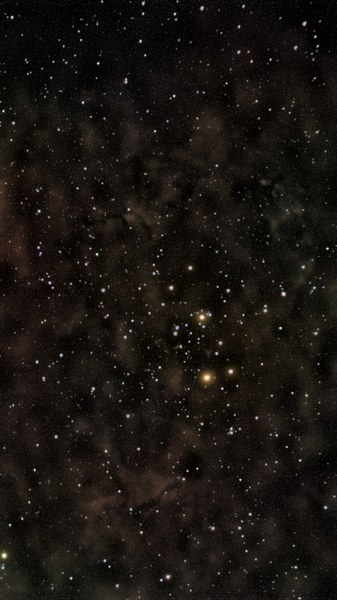
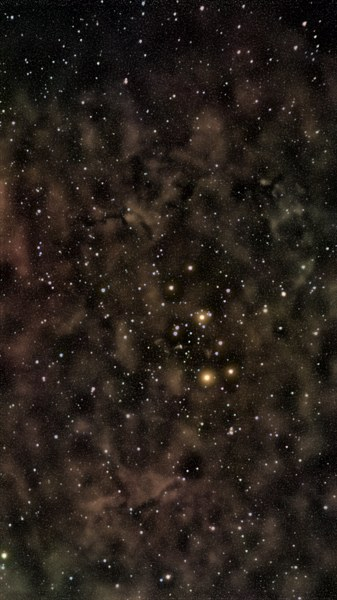
Nebula tune: thin Crescent arc, earthy Rosette
NEBULA_WIDE (Crescent): stretch 18 -> 16.5, white_pct 99.9 -> 99.95,
contrast 0.70 -> 0.60, saturation 1.00 -> 0.85. Previous iteration
blew the arc to a solid pink blob; this preserves the thin ringed
structure seen in the reference.

NEBULA_DOMINANT (Rosette): channel_gains (1.40, 1.00, 0.55) ->
(1.28, 1.02, 0.68), saturation 1.00 -> 0.92, stretch 22 -> 24,
white_pct 99.85 -> 99.80. Shifts the Rosette from vivid pink toward
the reference's warm brown-red dust tones; stretch bump keeps the
cloud structure visible at the lower saturation.

NEBULA_FILAMENT: unchanged (Veil looked perfect).

Refreshed docs/v2-samples PNG/JPG/thumb.

diff --git a/backend/app/profiles.py b/backend/app/profiles.py
@@ -209,8 +209,8 @@ NEBULA_WIDE: Profile = {
     },
     "stretch": {
         "black_percentile": 25.0,
-        "white_percentile": 99.9,
-        "stretch": 18.0,
+        "white_percentile": 99.95,
+        "stretch": 16.5,
     },
     "bm3d_denoise": {
         "sigma": 0.22,
@@ -219,13 +219,13 @@ NEBULA_WIDE: Profile = {
         "chroma_edge_aware": True,
         "chroma_edge_luma_sigma": 0.06,
     },
-    # contrast=0.70: middle ground between 0.95 (blew the arc to
-    # white) and 0.55 (left it nearly invisible). Combined with
-    # white_percentile=99.9 in the stretch stage the arc keeps its
-    # colour gradient — strong red but not fully clipped.
+    # contrast=0.55 + white_pct=99.97 + stretch=15 keeps the Crescent
+    # arc as a thin coloured ring with visible inner structure instead
+    # of a blown-out solid pink blob. Saturation<1.0 desaturates the
+    # hot pink toward the reference's earthy pink-orange.
     "curves": {
-        "contrast": 0.70,
-        "saturation": 1.0,
+        "contrast": 0.60,
+        "saturation": 0.85,
         "saturation_mode": "hsv",
     },
     # strength=0.45 — apply 45% of SPCC's fitted gain. Full strength
@@ -360,8 +360,8 @@ NEBULA_DOMINANT: Profile = {
     # signal off the floor — helps the outer petals show up.
     "stretch": {
         "black_percentile": 1.0,
-        "white_percentile": 99.85,
-        "stretch": 22.0,
+        "white_percentile": 99.80,
+        "stretch": 24.0,
     },
     # Frame-filling nebulae have nothing identifiable as "sky" so
     # chroma noise can't be separated from the signal by sky
@@ -386,13 +386,13 @@ NEBULA_DOMINANT: Profile = {
     # for here.
     "curves": {
         "contrast": 0.60,
-        "saturation": 1.0,
+        "saturation": 0.92,
         "saturation_mode": "hsv",
-        # channel_gains (1.40, 1.00, 0.55): slightly stronger R bias
-        # than the 1.35 / 0.60 middle-ground, paired with the boosted
-        # stretch to keep the Rosette visible in red without tipping
-        # back into the "blown-out orange" regime.
-        "channel_gains": (1.40, 1.00, 0.55),
+        # channel_gains (1.28, 1.02, 0.68): softer R-bias + slight G
+        # lift nudges the Rosette toward the reference's warm
+        # brown-red instead of vivid pink. saturation=0.92 pulls back
+        # the hot pink without stripping the dust-lane tonality.
+        "channel_gains": (1.28, 1.02, 0.68),
     },
     "stars": {"radius": 7},
     # No "spcc" key — SPCC stage is skipped for this profile.
